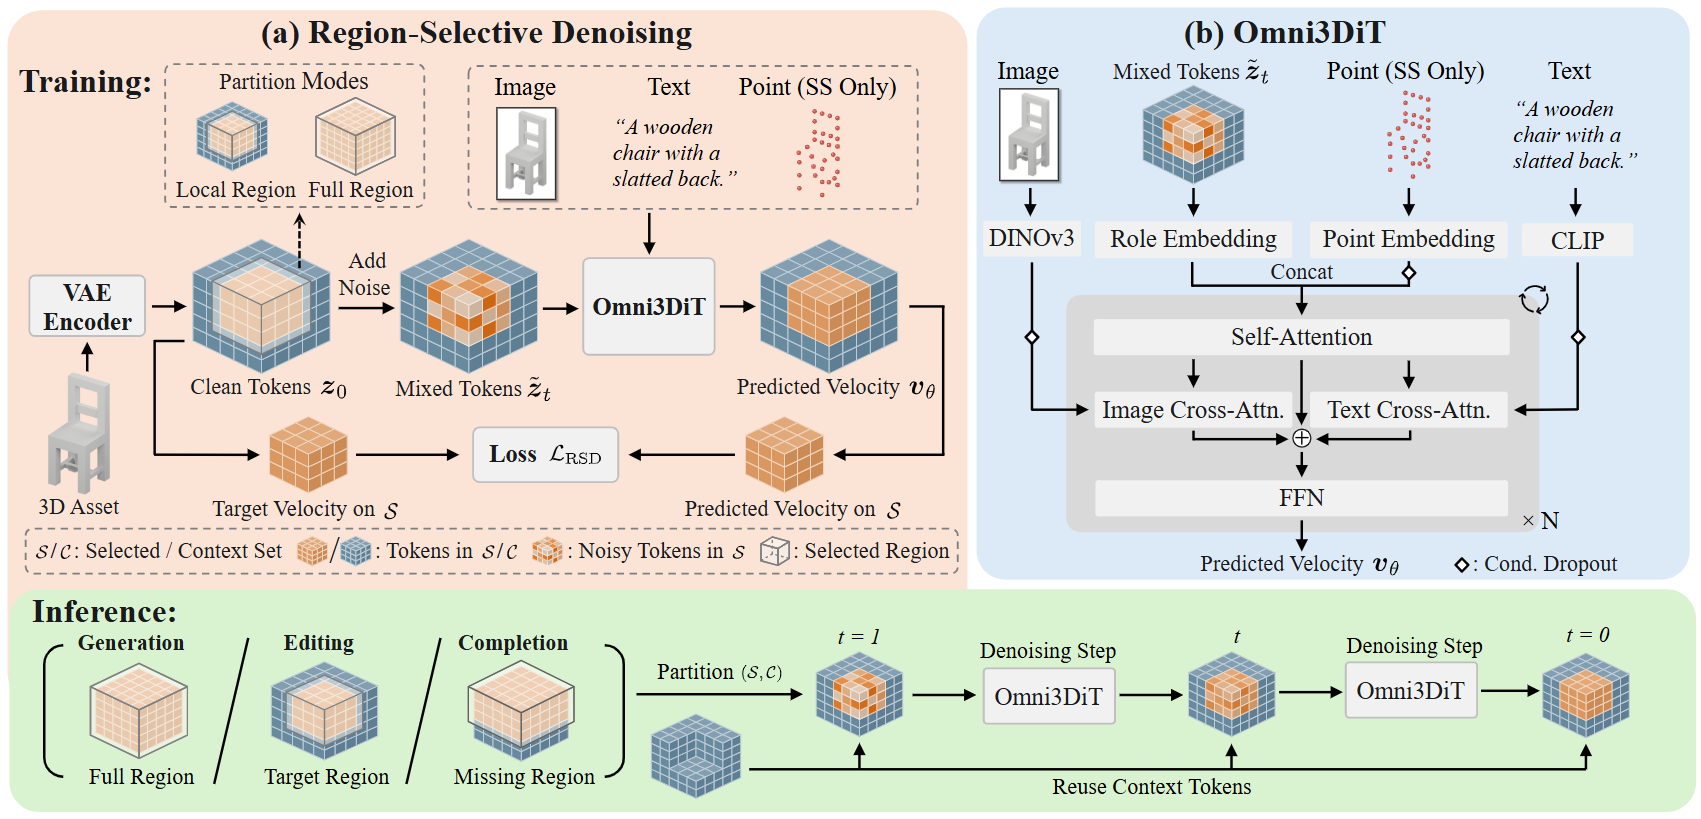
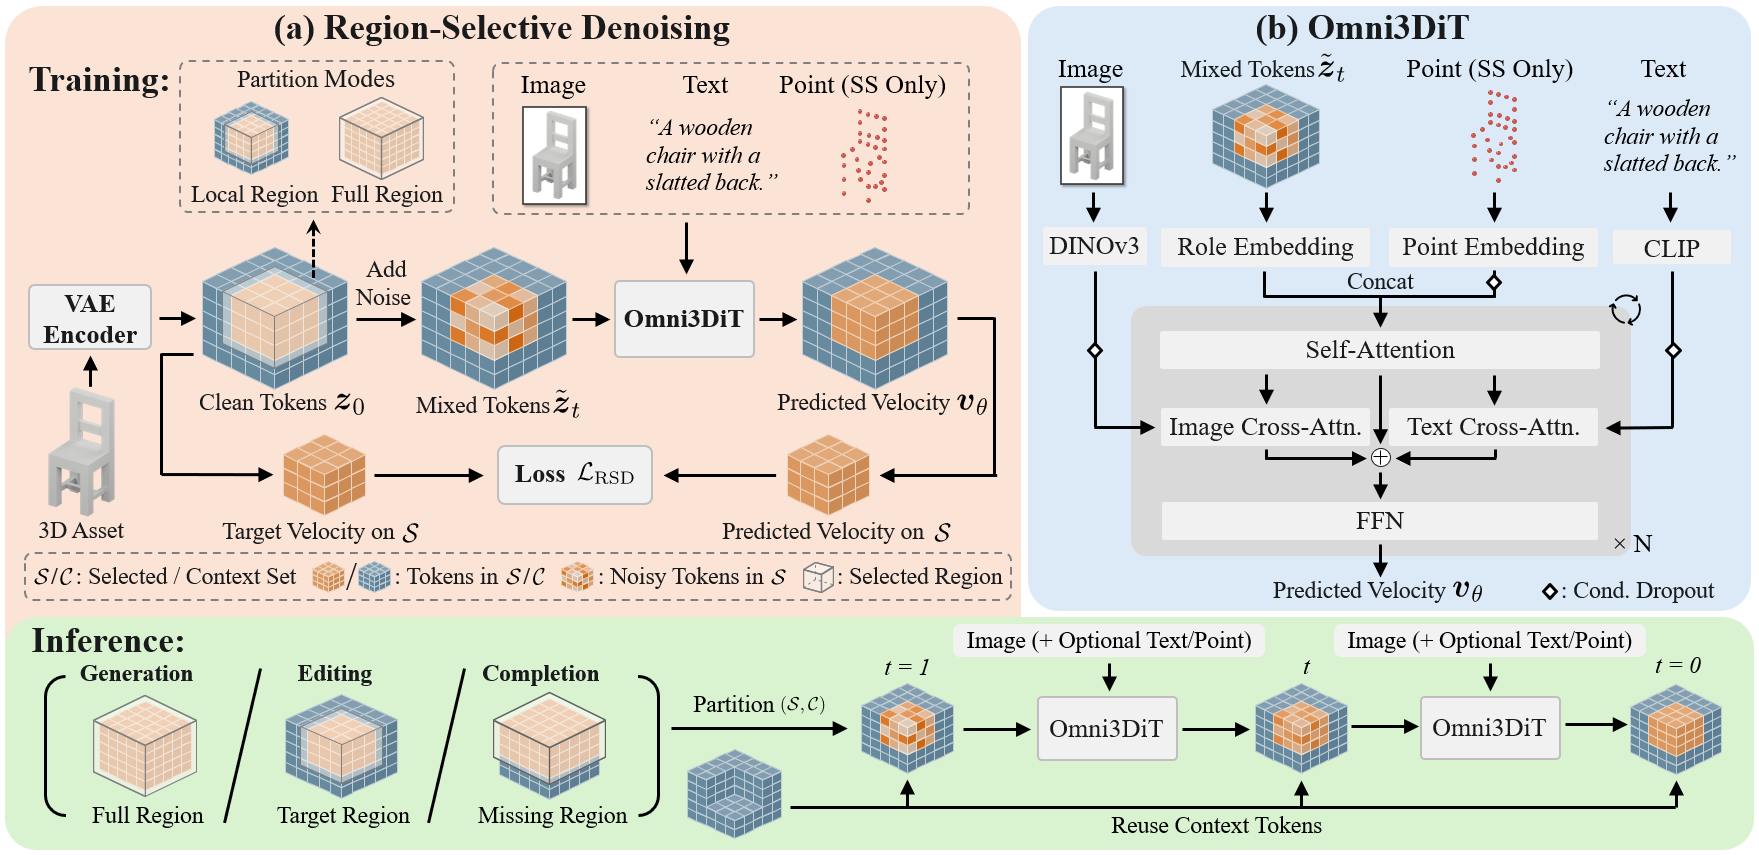
Update pipeline figure and description

diff --git a/index.html b/index.html
@@ -139,9 +139,9 @@
   <section id="method" class="card">
     <h2 class="card-title">Method</h2>
     <figure class="figure">
-      <img src="static/images/figures/pipeline.png" alt="SeMo3D pipeline: (a) region-selective denoising and (b) Omni3DiT" loading="lazy" width="1701" height="819">
+      <img src="static/images/figures/pipeline.png" alt="SeMo3D pipeline: (a) region-selective denoising and (b) Omni3DiT" loading="lazy" width="1759" height="855">
     </figure>
-    <p class="body-text">SeMo3D instantiates selective modeling with two components. <span class="hl hl-orange">Region-Selective Denoising</span> (a) adds noise and loss only to a selected token set <span class="sym">𝒮</span> while the context <span class="sym">𝒞</span> stays clean; at inference, <span class="sym">𝒮</span> is denoised from pure noise and the clean <span class="sym">𝒞</span> is reused at every step. <span class="hl hl-navy">Omni3DiT</span> (b) is a multi-condition 3D diffusion transformer that processes both kinds of tokens together and fuses image, text, and point guidance. Point guidance is applied only in the sparse structure (SS) stage.</p>
+    <p class="body-text">SeMo3D instantiates selective modeling with two components. <span class="hl hl-orange">Region-Selective Denoising</span> (a) adds noise and loss only to a selected token set <span class="sym">𝒮</span> while the context <span class="sym">𝒞</span> stays clean; at inference, <span class="sym">𝒮</span> is denoised from pure noise and the clean <span class="sym">𝒞</span> is reused at every step. <span class="hl hl-navy">Omni3DiT</span> (b) is a multi-condition 3D diffusion transformer that processes both kinds of tokens together and fuses image guidance with optional text and point conditions.</p>
     <div class="cols cols--2">
       <div class="col col--orange"><h3>Region-Selective Denoising</h3><p>Randomly selects regions of varying sizes on standard 3D assets. As the selected region grows from a small box to the full asset, one procedure spans local editing, partial completion, and full generation — no paired supervision needed.</p></div>
       <div class="col col--navy"><h3>Omni3DiT</h3><p>Role embeddings tell noisy selected tokens from clean context; parallel image and text cross-attention plus sparse point tokens in self-attention give fine-grained, complementary control.</p></div>
